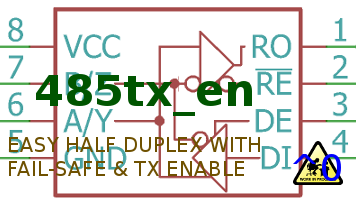
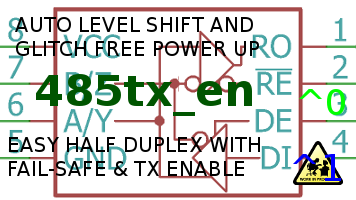
485tx_en: ^0 testing

diff --git a/485tx_en/README.md b/485tx_en/README.md
@@ -26,6 +26,8 @@ Since the receiver remains activated when the transmitter is enabled the UART wi
 ```
         RS485 transceiver with builtin fail-safe 
         Push to talk control (DE) is done with inverted TX.
+        An automatic level shift to the MCU or UART logic voltage.
+        Glitch-free power up no matter which side starts first.
 ```
 
 
@@ -33,6 +35,8 @@ Since the receiver remains activated when the transmitter is enabled the UART wi
 
 ```
         Half Duplex serial
+        USBuart has a 17mA current source that powers IOFF buffers on its self and the 485tx_en.
+        When the USBuart port is closed it can be disconnected without causeing a bus glitch (ESD is a risk).
 ```
 
 
@@ -49,10 +53,16 @@ Since the receiver remains activated when the transmitter is enabled the UART wi
 ![Status](./status_icon.png "Status")
 
 ```
-        ^0  Done: Design, Layout, BOM, Review*, Order Boards, 
-            WIP: Assembly,
-            Todo: Testing, Evaluation.
+        ^1  Done: 
+            WIP: 
+            Todo: Design, Layout, BOM, Review*, Order Boards, Assembly, Testing, Evaluation.
             *during review the Design may change without changing the revision.
+            Change labels on board to DI and RO.
+            
+        ^0  Done: Design, Layout, BOM, Review*, Order Boards, Assembly,
+            WIP: Testing,
+            Todo: Evaluation.
+            *during review the Design may change without changing the revision. 
 ```
 
 Debugging and fixing problems i.e. [Schooling](./Schooling/)
@@ -101,10 +111,12 @@ Connect UART_RX (whcih goes to RO), UART_TX (which goes to DI), and UART power (
 
 If the power to the transceiver is turned off the bus is free to use by other devices (and not locked up). If the power to the UART is removed the IOFF buffer will go into its HI-Z state (which is the IOFF feature), and if the transceiver still is powered it will be set up so the bus is free to use by other devices.
 
+Power up synchronization normally results in bus glitches, but in this case, any power-up sequence is glitch free. The transceiver has a different power supply than the IOFF buffer, so they will reach a powered on state at different times. This is often how glitches start. There are so many details to this I don't even know where to start so, for now, it is IOFF plus some magic.
+
 
 # Other Tx Enable
 
-Some of the Sparkfun boards done by LinkSprite did this, but they also turn off the receive which was not what I wanted. 
+Some of the Sparkfun boards done by LinkSprite had TX enable, but they also turn off the receive which was not what I wanted. The sender can look for bus collisions by keeping the receiver enabled, but doing both the send and the receive at the same time requiers hardware (e.g. a UART).
 
 * https://cdn.sparkfun.com/datasheets/Dev/Arduino/Shields/RS485_schematics.pdf
 

diff --git a/485tx_en/Testing/readme.md b/485tx_en/Testing/readme.md
@@ -31,15 +31,36 @@ After assembly check the circuit carefully to make sure all parts are soldered a
 
 ## IC Solder Test
 
-Check that a diode drop to 0V is present from a circuit board pad that is connected to each of the pins of the IC's. Measure with a DMM's diode test. Consult the schematic to determine which pins can be skipped (e.g. ground, power rail, ...).
+Check that a diode drop to 0V is present from a circuit board pad that is connected to each of the pins of the IC's. Measure with a DMM's diode test. Consult the schematic to determine which pins can be skipped (e.g. ground, power rail, A/B RS485 lines...).
 
 
 ## Bias
 
-Setup a current limited supply with 5V and about 20mA limit. Connect it to the 5V USB input. Measure the input current.
+Setup a current limited supply with 5V and about 20mA limit. Connect the supply to the Tranceiver VCC input (J2 pin1) and 0V (J2 pin4). Measure the input current.
 
 ``` 
-{ "USB_IN_CURR_mA":[9.3,] }
+{ "TXCVR_IN_CURR_mA":[1.9,] }
 ``` 
 
-TBD
+Connect the supply to the Buffer UART_IOREF input (J1 pin3) and 0V (J1 pin1). Measure the input current.
+
+``` 
+{ "IOFFBUF_IN_CURR_mA":[1.7,] }
+``` 
+
+## USBuart 
+
+Connect a USBuart and use its 17mA current source to drive the 485tx_en buffer. Open the port and measure the voltage on UART_IOREF input (J1 pin3). Verify echo on RX (note receiver is on).
+
+```
+picocom -b 38400 /dev/ttyUSB1
+...
+Terminal ready
+asdf
+```
+
+``` 
+{ "UART_IOREF_AT_17mA_V":[4.7,] }
+``` 
+
+

diff --git a/485tx_en/Evaluation/readme.md b/485tx_en/Evaluation/readme.md
@@ -7,12 +7,18 @@ This shows the setup and methods used for evaluation of 485tx_en.
 
 # Table Of Contents:
 
-1. ^0 TBD
+1. ^0 Transceiver Current with Short A/B
+1. ^0 Transceiver Current with 47 Ohm A/B
 
 
-## ^0 TBD
+## ^0 Transceiver Current with Short A/B
 
-TBD
+With LOW on DI and IOFF buffer at 5V. Transceiver current was 79mA.
+
+
+## ^0 Transceiver Current with 47 Ohm A/B
+
+With LOW on DI and IOFF buffer at 5V. Transceiver current was 67mA.
 
 
 

diff --git a/485tx_en/Schooling/readme.md b/485tx_en/Schooling/readme.md
@@ -4,10 +4,13 @@ Some lessons I learned doing 485tx_en.
 
 # Table Of Contents:
 
-1. ^0 TBD
+1. ^0 Board Labels
 
 
-## ^0 TBD
+## ^0 Board Labels
 
+DI has marking TO_TX on board but that does not make sense.
 
+RO has marking FROM_RX on board and again that makes no sense.
 
+I think it may be better to mark the board with DI and RO.
